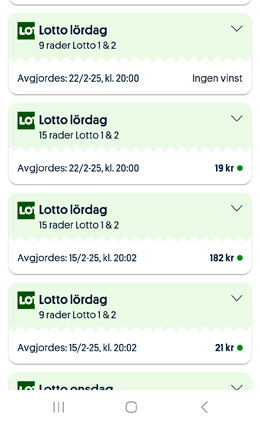
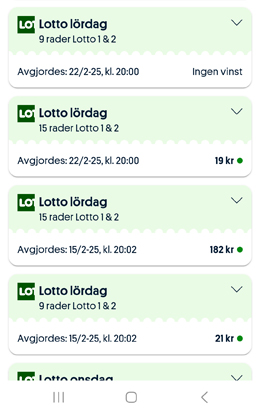
Added more responsiveness to starting page

diff --git a/app/page.module.css b/app/page.module.css
@@ -7,9 +7,12 @@
     justify-content: center;
     height: auto;
 
-    .myImg{
-        transform: rotate(20deg);
+    .myImg {
+        transform: rotate(15deg);
+        width: 36vw;
+        height: auto;
     }
+
     .main {
         display: flex;
         flex-direction: column;
@@ -63,20 +66,48 @@
     }
 
     .cards {
-        width: 30vw;
+        display: flex;
+        justify-content: center;
+        align-items: center;
+        /* border: 1px solid salmon; */
         padding-left: 9vw;
+        width: 50vw;
         height: auto;
 
         .card {
             position: absolute;
-            width: 260px;
-            height: 415px;
+            margin-top: 450px;
+            width: clamp(200px, 40%, 260px);
+            height: auto;
+            min-height: 50%;
+            /* max-height: 100%; */
             border-radius: 8px;
             box-shadow: rgba(0, 0, 0, 0.1) 0px 5px 15px;
             transform-origin: center 1000px;
-            transition: all 0.9s linear;
+            transition: all 0.5s linear;
 
         }
 
+    }
+}
+
+@media (min-width: 320px) {
+    .card {
+        /* border: 1px solid blue; */
+        margin-top: 250px;
+        width: clamp(200px, 40%, 260px);
+        height: auto;
+        /* max-width: 100%;
+        min-width: 60%; */
+    }
+}
+
+@media (min-width: 768px) {
+    .card {
+        /* border: 1px solid orangered; */
+        margin-top: 450px;
+        max-width: 260px;
+        height: auto;
+        min-height: 50%;
     }
 }

diff --git a/app/page.tsx b/app/page.tsx
@@ -5,7 +5,7 @@ import Link from "next/link";
 export default function Home() {
   return (
     <div className={styles.page}>
-      <div>
+      <div className="balls">
         <Image className={styles.myImg}
           src="/bollar_01.png"
           alt="numbered balls"

diff --git a/README.md b/README.md
@@ -109,4 +109,7 @@ it is calculated and added as the last number to the string array.
 1. Grouping functionality implemented. Strange that I could not trim properly the comma at the end.
 I tried in vain.
 2. Working with the animation on the starting page now (the animation bootcamp gave me some ideas).
-3. Done with the animation. Looks pretty cool if you ask me. :)
+3. Done with the animation. Looks pretty cool if you ask me. Not so responsive though. :)
+
+16-April-2025
+1. Added more responsiveness to starting page
